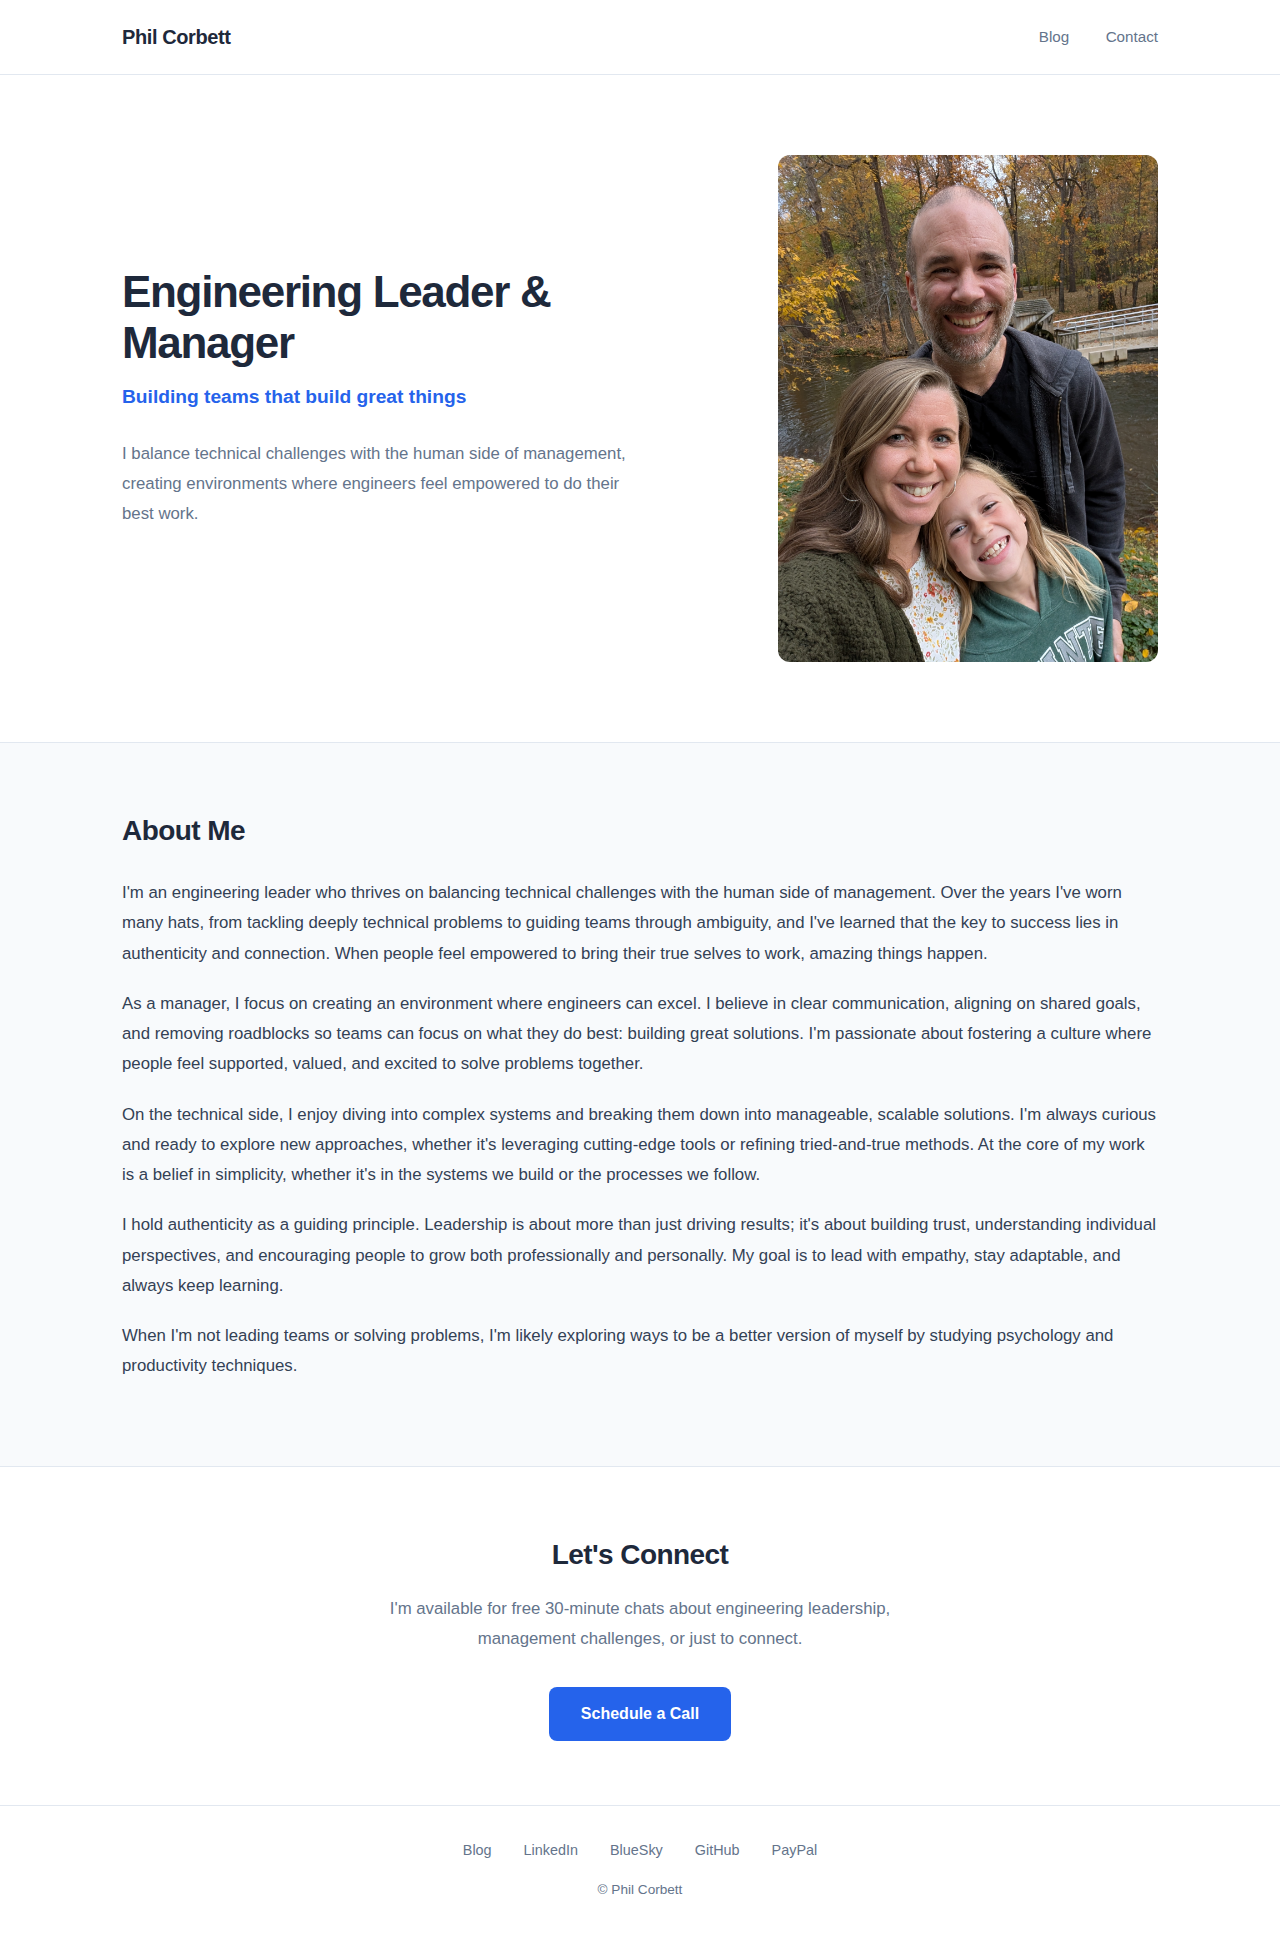
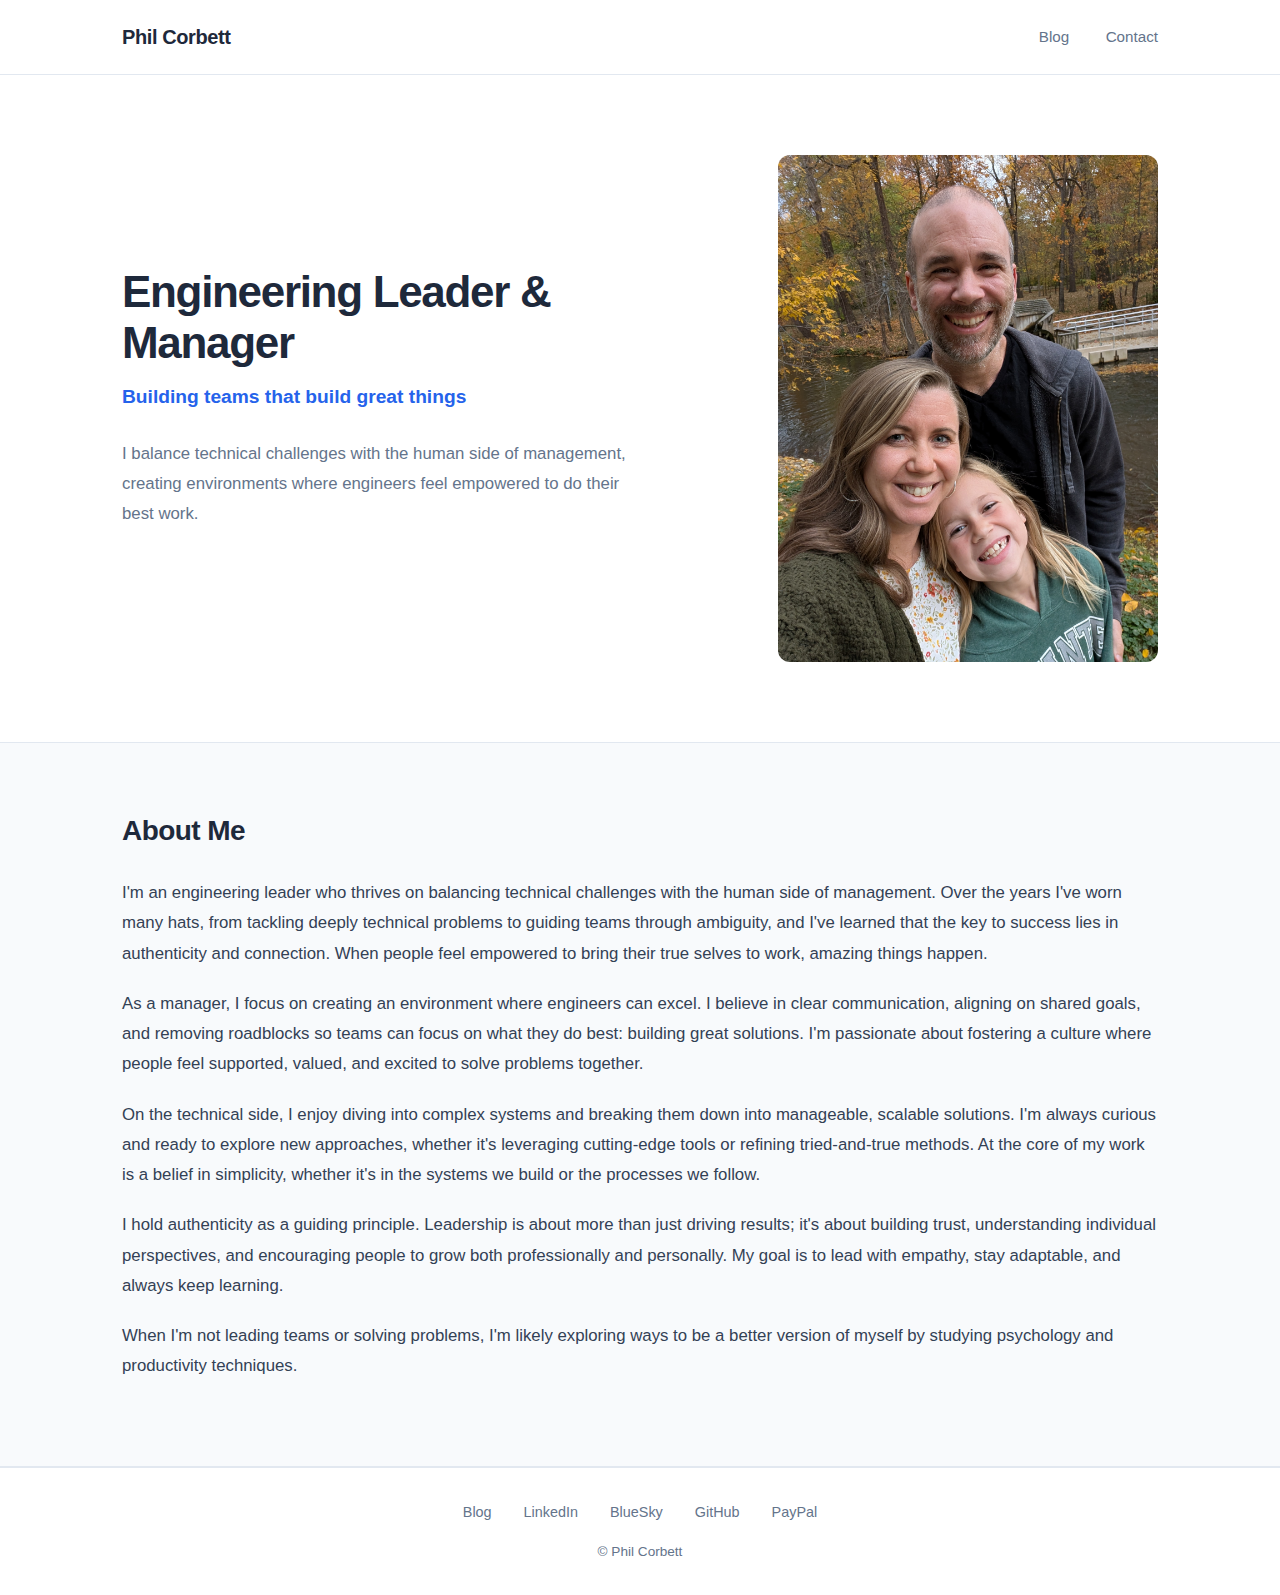
Remove schedule a call links from homepage and contact page
https://claude.ai/code/session_01TZoVdy1ekYLPnvtGSinMmK

diff --git a/index.html b/index.html
@@ -70,14 +70,6 @@
       </section>
     </div>
 
-    <section class="cta">
-      <h2>Let's Connect</h2>
-      <p>
-        I'm available for free 30-minute chats about engineering leadership,
-        management challenges, or just to connect.
-      </p>
-      <a class="btn" href="https://calendar.app.google/m8kSBYeTmrLFFDmb6">Schedule a Call</a>
-    </section>
   </main>
 
   <footer>

diff --git a/pages/contact.html b/pages/contact.html
@@ -28,7 +28,6 @@
       <ul>
         <li><a href="mailto:phil@philcorbett.net">phil@philcorbett.net</a></li>
         <li><a href="https://forms.gle/pvyHWBgM4WvanL1V8" target="_blank">Anonymous contact form</a></li>
-        <li><a href="https://calendar.app.google/m8kSBYeTmrLFFDmb6" target="_blank">Schedule a 30-minute call</a></li>
       </ul>
     </div>
   </main>
